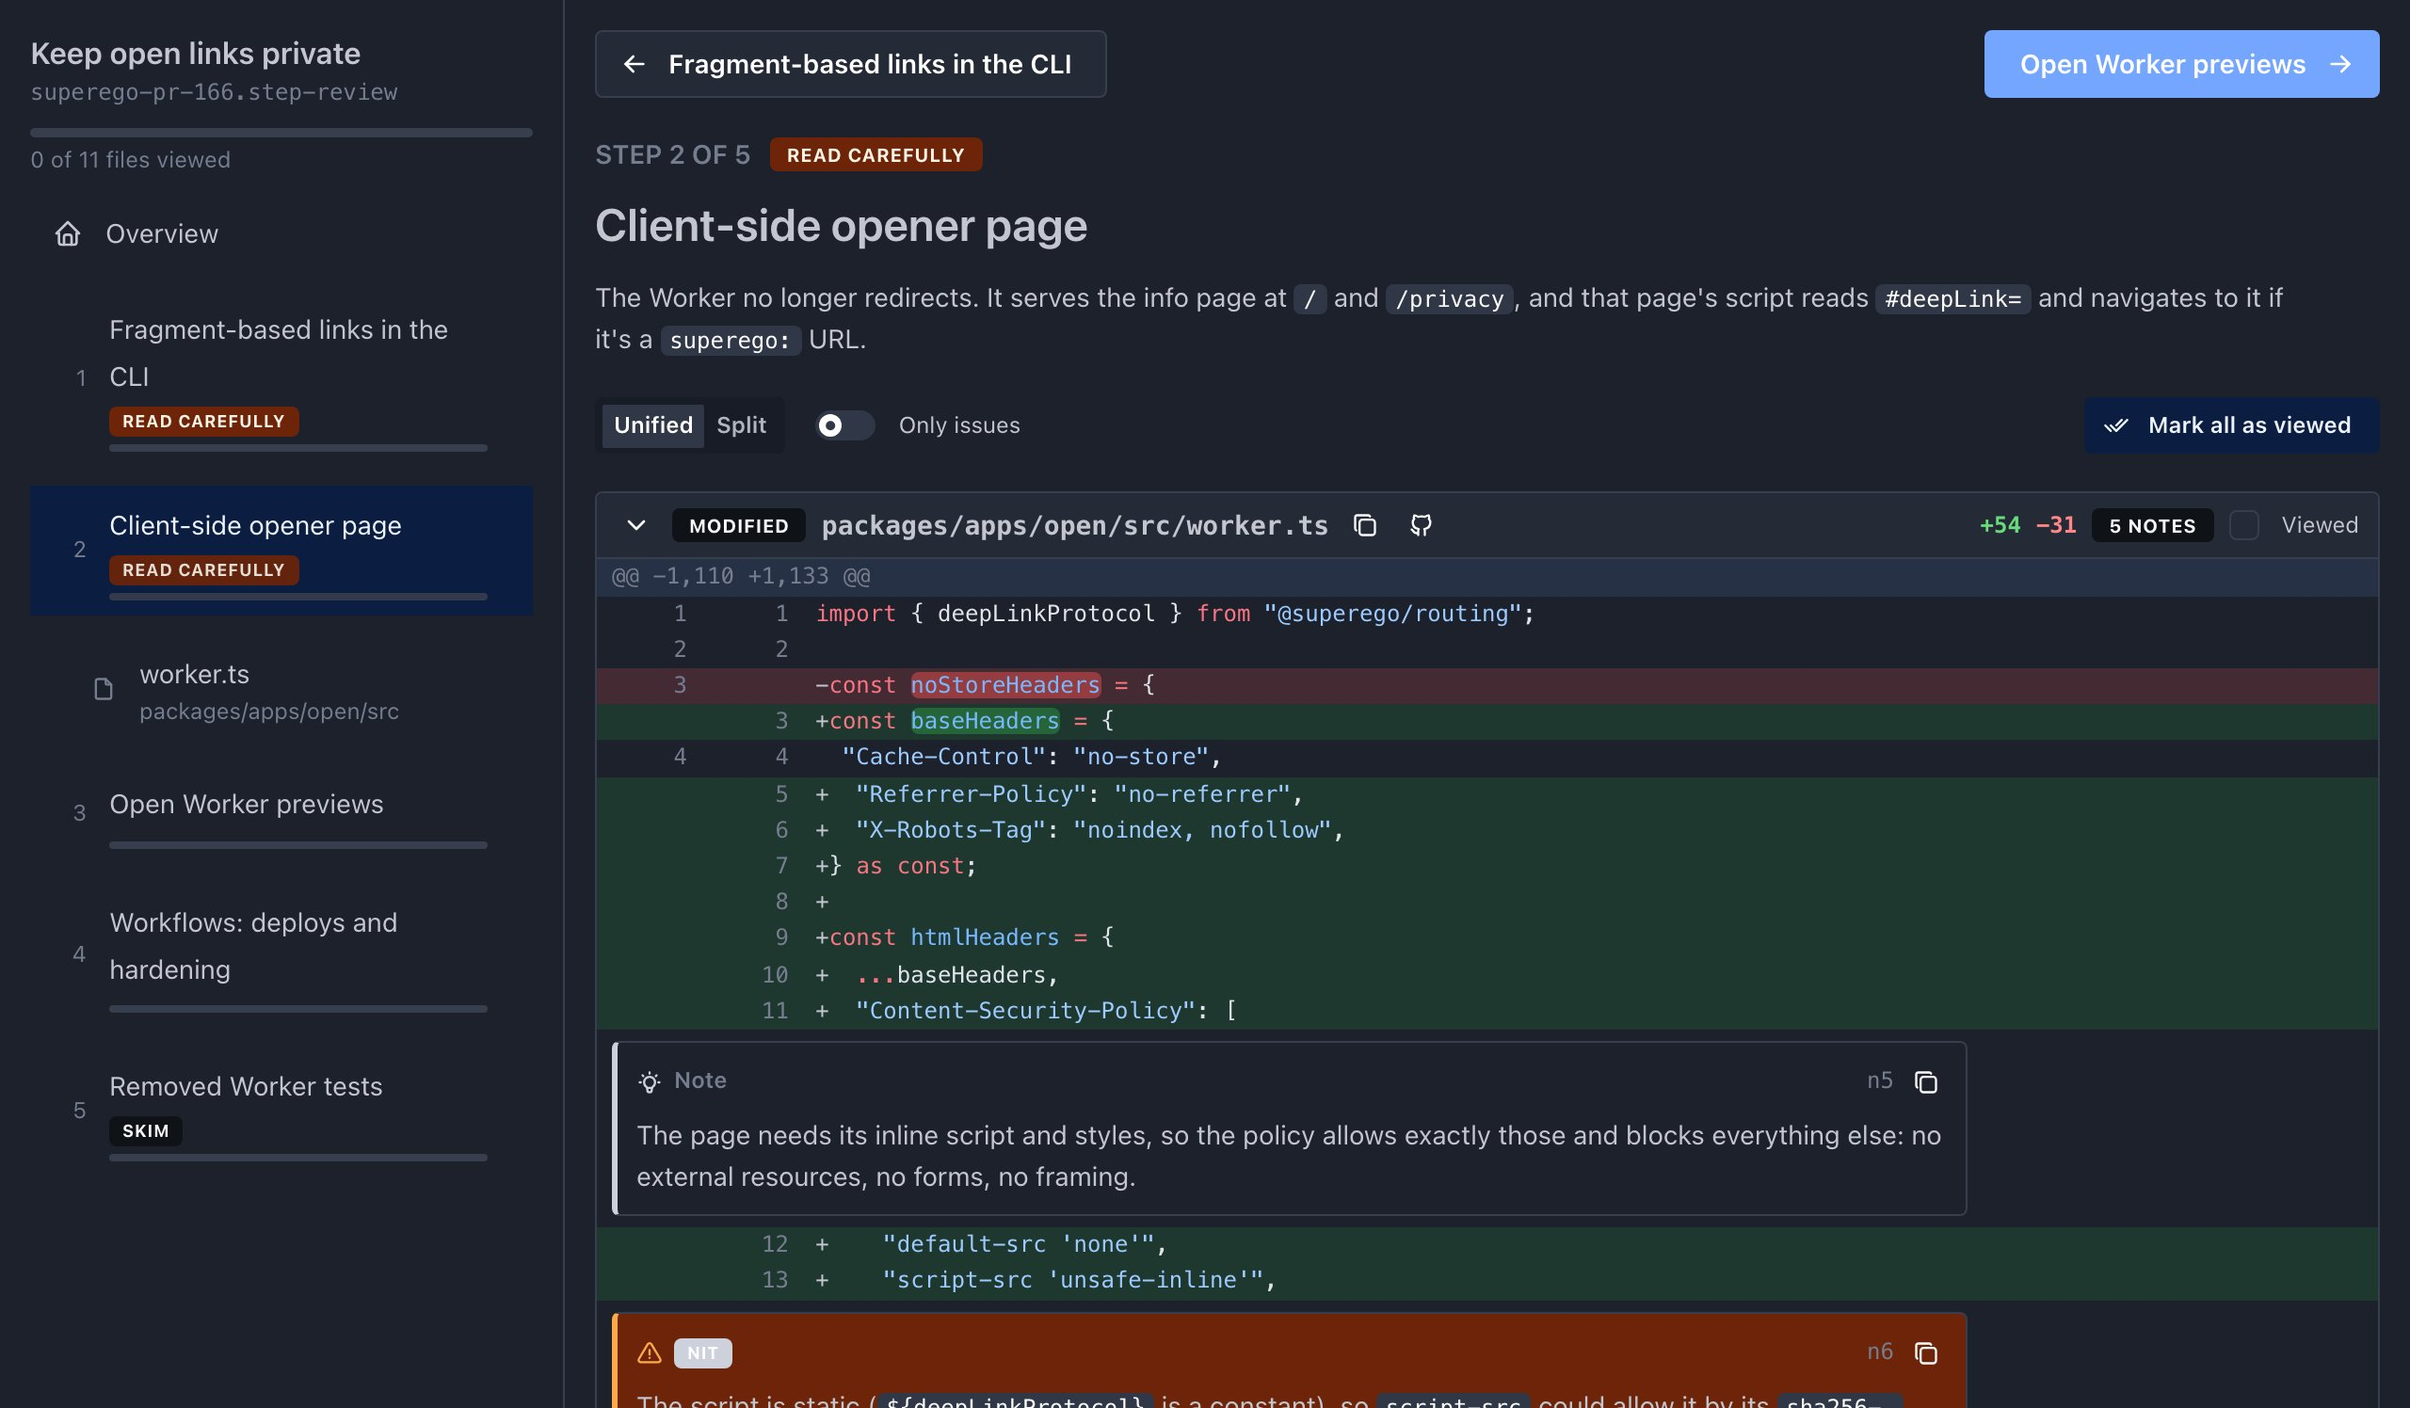
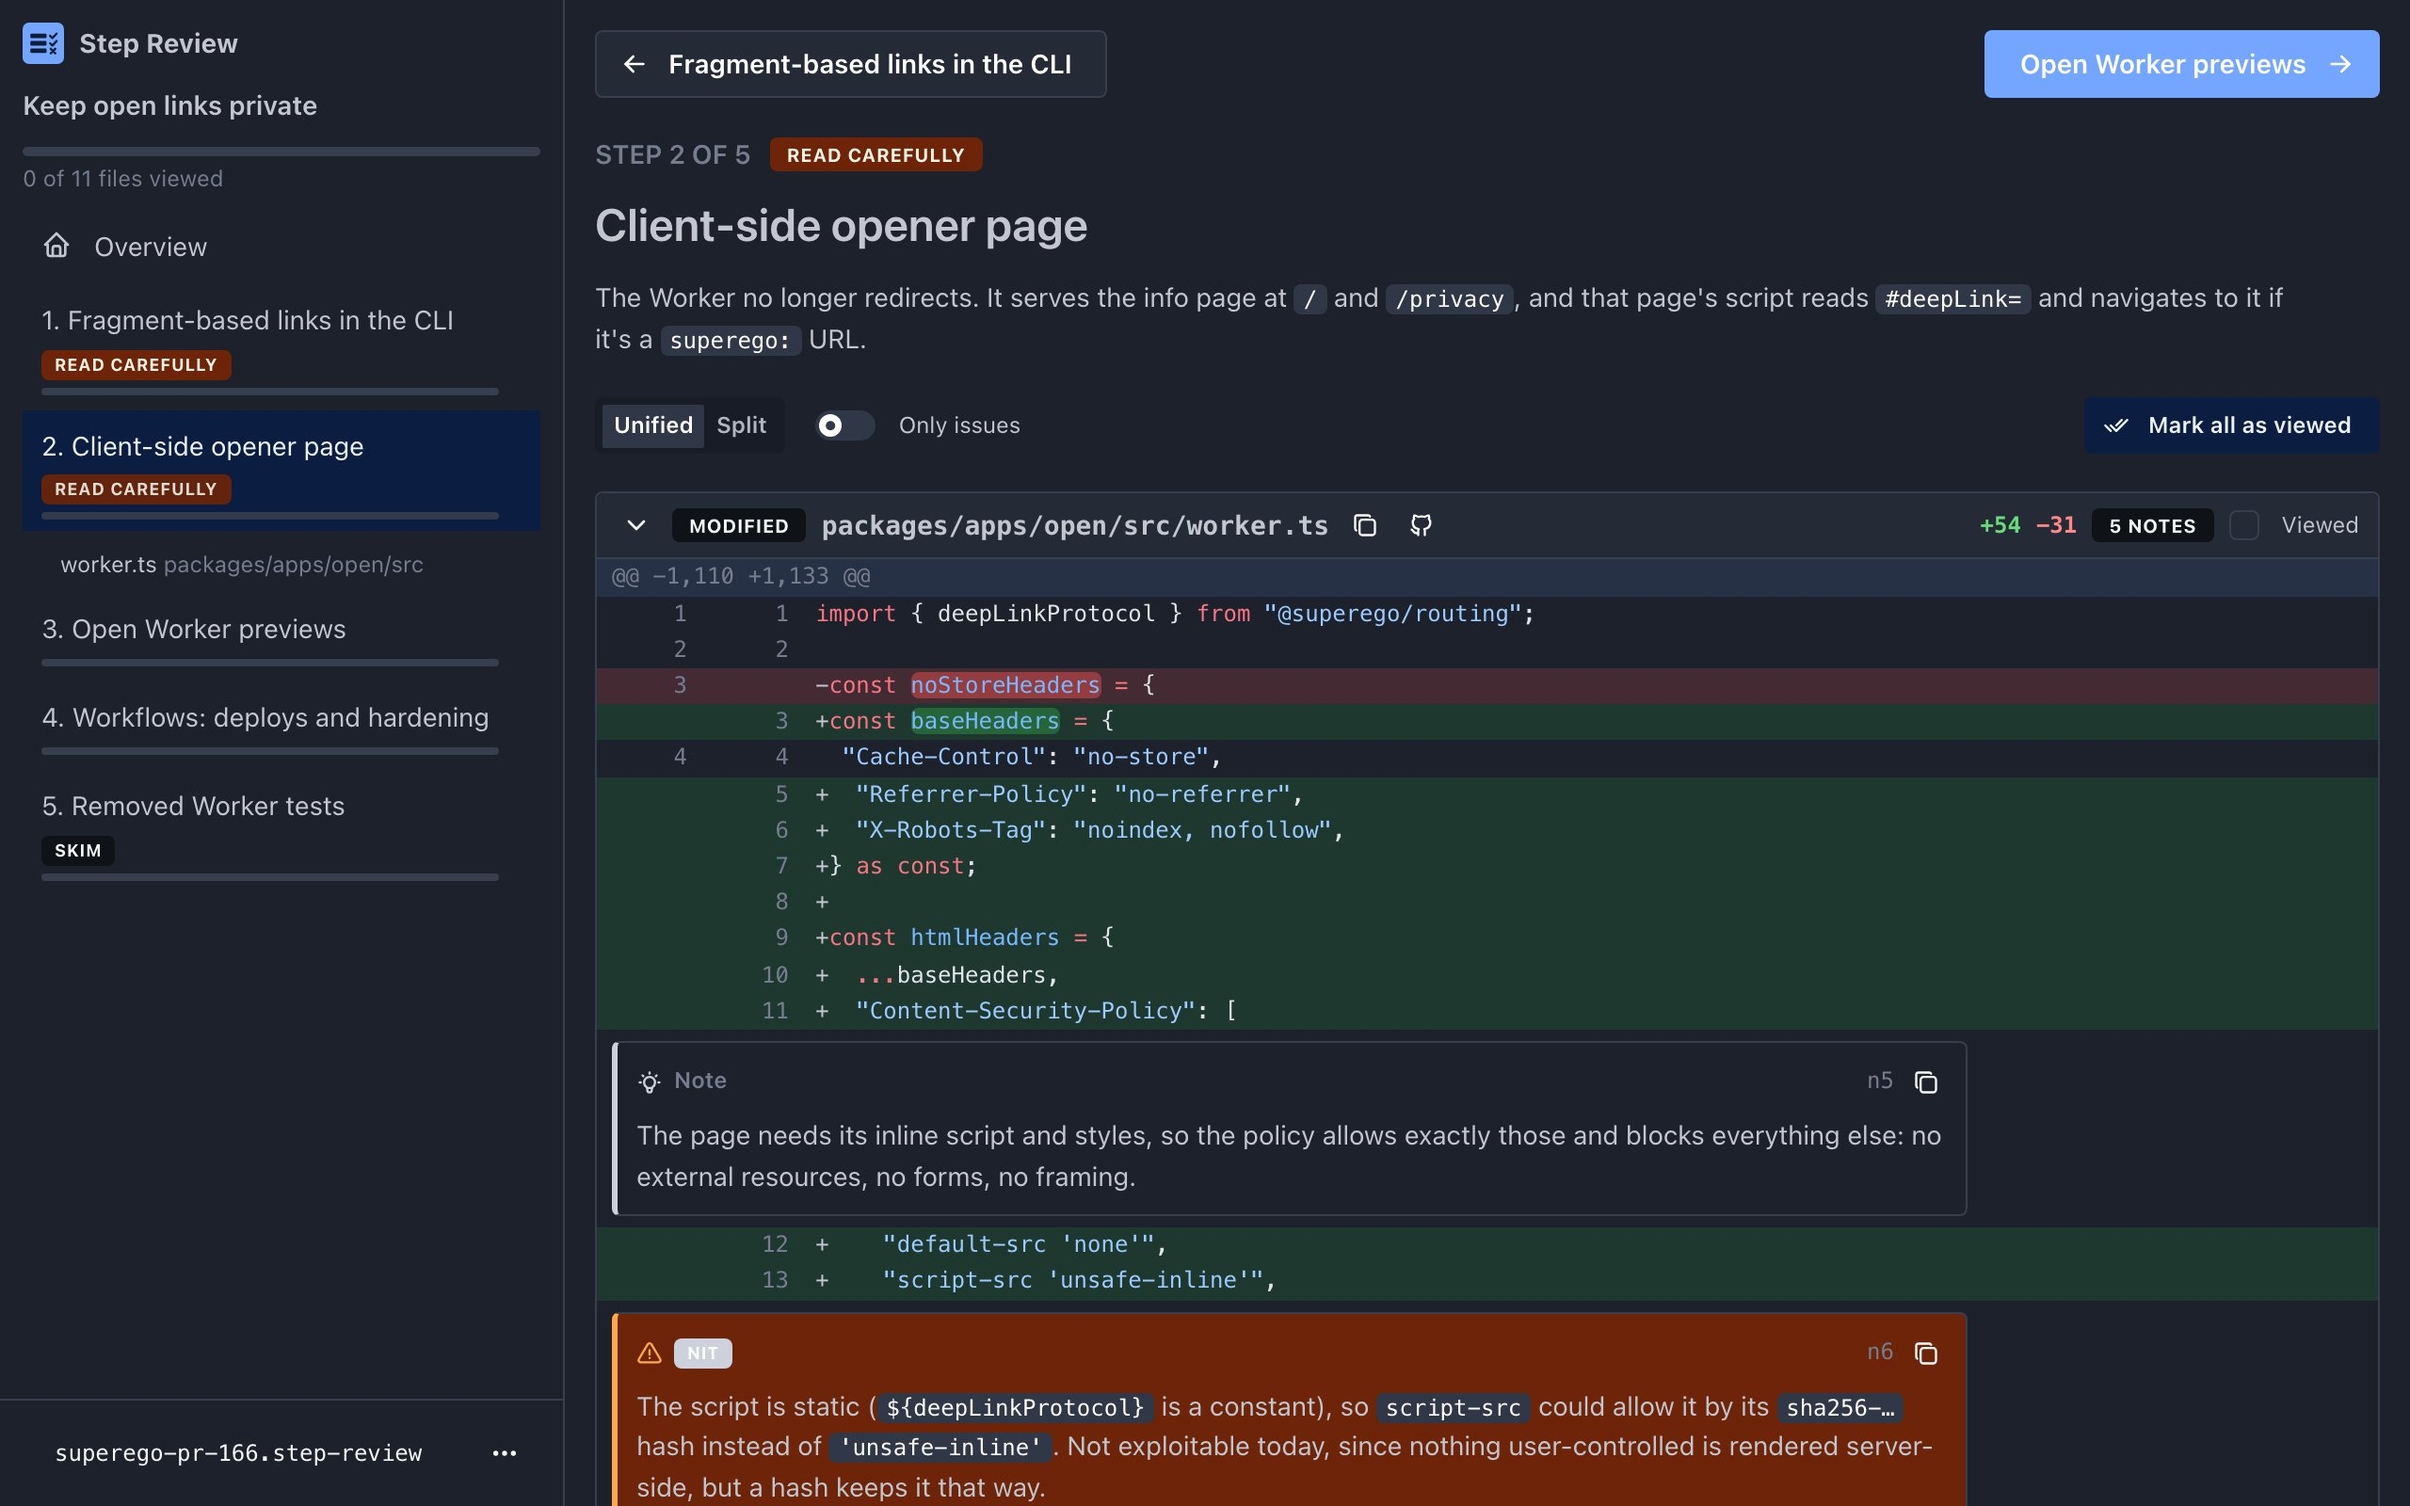
Make the sidebar compact and move the header into it
- Tighten the step links: the number goes before the title, with less
  padding, so most titles fit on one line.
- Show each file on one line, its name followed by its directory, with
  no icon; viewed files are dimmed.
- On wide screens, drop the top bar: the logo goes at the top of the
  sidebar and the review actions in a menu at its bottom, opened from
  the review file name. Narrow screens keep the bar to open the sidebar.
- Capture the start page screenshots again, now without cropping a
  header.

diff --git a/packages/app/src/components/widgets/StepNavigation/StepNavigation.tsx b/packages/app/src/components/widgets/StepNavigation/StepNavigation.tsx
@@ -1,5 +1,5 @@
-import { Group, NavLink, Progress, Stack, Text } from "@mantine/core";
-import { IconCircleCheck, IconFile, IconHome } from "@tabler/icons-react";
+import { Box, NavLink, Progress, Stack, Text } from "@mantine/core";
+import { IconHome } from "@tabler/icons-react";
 import type { MouseEvent } from "react";
 import { FormattedMessage } from "react-intl";
 import navigateTo from "../../../business-logic/navigation/navigateTo.ts";
@@ -38,8 +38,8 @@ export default function StepNavigation({
       onNavigate();
     };
   return (
-    <Stack gap="xs">
-      <div>
+    <Stack gap={2}>
+      <Box mb={6}>
         <Progress
           value={
             overall.totalCount
@@ -57,9 +57,11 @@ export default function StepNavigation({
             values={overall}
           />
         </Text>
-      </div>
+      </Box>
       <NavLink
         component="a"
+        px="xs"
+        py={6}
         href={routeHref({ name: RouteName.Overview })}
         label={<FormattedMessage defaultMessage="Overview" />}
         leftSection={<IconHome size={16} />}
@@ -72,24 +74,25 @@ export default function StepNavigation({
           <NavLink
             key={step.id}
             component="a"
+            px="xs"
+            py={6}
             href={routeHref({ name: RouteName.Step, stepId: step.id })}
             active={activeStepId === step.id}
             opened={activeStepId === step.id}
             // The active step is always open: no chevron to toggle it.
             rightSection={null}
             onClick={go(step.id)}
-            leftSection={
-              <Text size="xs" c="dimmed" w={18} ta="right">
-                {step.number}
-              </Text>
+            childrenOffset="xs"
+            label={
+              <>
+                {step.number}. <StepTitle step={step} />
+              </>
             }
-            label={<StepTitle step={step} />}
             description={
-              <Stack gap={4} mt={4}>
-                <Group gap={4}>
-                  <AttentionBadge attention={step.attention} size="xs" />
-                </Group>
+              <Stack gap={4} mt={4} align="flex-start">
+                <AttentionBadge attention={step.attention} size="xs" />
                 <Progress
+                  w="100%"
                   size={4}
                   value={
                     (progress.viewedCount / Math.max(progress.totalCount, 1)) *
@@ -107,30 +110,27 @@ export default function StepNavigation({
             {step.files.map((file) => {
               const fileFragment = `file-${file.id}`;
               const separatorIndex = file.path.lastIndexOf("/");
+              const isViewed = viewedFingerprints.has(file.fingerprint);
               return (
                 <NavLink
                   key={file.id}
                   component="a"
+                  px="xs"
+                  py={2}
                   href={`${routeHref({ name: RouteName.Step, stepId: step.id })}#${encodeURIComponent(fileFragment)}`}
                   active={fragment === fileFragment}
                   onClick={go(step.id, fileFragment)}
                   noWrap
                   title={file.path}
-                  leftSection={
-                    viewedFingerprints.has(file.fingerprint) ? (
-                      <IconCircleCheck
-                        size={14}
-                        color="var(--mantine-color-success-filled)"
-                      />
-                    ) : (
-                      <IconFile size={14} color="var(--mantine-color-dimmed)" />
-                    )
-                  }
-                  label={file.path.slice(separatorIndex + 1)}
-                  description={
-                    separatorIndex > 0
-                      ? file.path.slice(0, separatorIndex)
-                      : undefined
+                  label={
+                    // Viewed files are dimmed; the directory follows the name
+                    // on the same line, cut off when it doesn't fit.
+                    <Text span size="xs" c={isViewed ? "dimmed" : undefined}>
+                      {file.path.slice(separatorIndex + 1)}{" "}
+                      <Text span inherit c="dimmed">
+                        {file.path.slice(0, Math.max(separatorIndex, 0))}
+                      </Text>
+                    </Text>
                   }
                 />
               );

diff --git a/packages/app/src/components/widgets/ReviewShell/ReviewShell.tsx b/packages/app/src/components/widgets/ReviewShell/ReviewShell.tsx
@@ -1,5 +1,12 @@
-import { AppShell, Burger, Group, ScrollArea, Text } from "@mantine/core";
-import { useDisclosure } from "@mantine/hooks";
+import {
+  AppShell,
+  Burger,
+  Group,
+  ScrollArea,
+  Text,
+  useMantineTheme,
+} from "@mantine/core";
+import { useDisclosure, useMediaQuery } from "@mantine/hooks";
 import type { ReactNode } from "react";
 import navigateTo from "../../../business-logic/navigation/navigateTo.ts";
 import RouteName from "../../../business-logic/navigation/RouteName.ts";
@@ -24,10 +31,19 @@ export default function ReviewShell({
   activeStepId,
   children,
 }: Props) {
+  const theme = useMantineTheme();
   const [isNavbarOpen, navbar] = useDisclosure(false);
+  // On wide screens the navbar is always shown and holds the brand, so the
+  // header, which only opens the navbar, is hidden.
+  const isNavbarPinned = useMediaQuery(
+    `(min-width: ${theme.breakpoints.md})`,
+    true,
+    { getInitialValueInEffect: false },
+  );
+  const goToStart = () => navigateTo({ name: RouteName.Start });
   return (
     <AppShell
-      header={{ height: 52 }}
+      header={{ height: 52, collapsed: isNavbarPinned }}
       navbar={{
         width: 300,
         breakpoint: "md",
@@ -37,43 +53,46 @@ export default function ReviewShell({
     >
       <AppShell.Header>
         <Group h="100%" px="md" gap="sm" wrap="nowrap">
-          <Burger
-            opened={isNavbarOpen}
-            onClick={navbar.toggle}
-            hiddenFrom="md"
-            size="sm"
-          />
+          <Burger opened={isNavbarOpen} onClick={navbar.toggle} size="sm" />
           <Group
             gap={8}
             wrap="nowrap"
             className={styles["brand"]}
-            onClick={() => navigateTo({ name: RouteName.Start })}
+            onClick={goToStart}
           >
             <Logo size={26} />
-            <Text fw={700} visibleFrom="sm">
-              Step Review
-            </Text>
-          </Group>
-          <Group gap="xs" ml="auto" wrap="nowrap">
-            <ReviewMenu loadedReview={loadedReview} />
+            <Text fw={700}>Step Review</Text>
           </Group>
         </Group>
       </AppShell.Header>
       <AppShell.Navbar>
-        <AppShell.Section p="md" pb="xs">
-          <Text fw={600} lineClamp={3}>
+        <AppShell.Section p="sm">
+          <Group
+            gap={8}
+            wrap="nowrap"
+            mb="sm"
+            className={styles["brand"]}
+            onClick={goToStart}
+            visibleFrom="md"
+          >
+            <Logo size={22} />
+            <Text fw={700} size="sm">
+              Step Review
+            </Text>
+          </Group>
+          <Text fw={600} size="sm" lineClamp={3}>
             {reviewView.data.target.title}
           </Text>
-          <Text size="xs" c="dimmed" ff="monospace" truncate>
-            {loadedReview.fileName}
-          </Text>
         </AppShell.Section>
-        <AppShell.Section grow component={ScrollArea} px="md" pb="md">
+        <AppShell.Section grow component={ScrollArea} px="sm" pb="sm">
           <StepNavigation
             reviewView={reviewView}
             activeStepId={activeStepId}
             onNavigate={navbar.close}
           />
+        </AppShell.Section>
+        <AppShell.Section p="xs" className={styles["footer"]}>
+          <ReviewMenu loadedReview={loadedReview} />
         </AppShell.Section>
       </AppShell.Navbar>
       <AppShell.Main>{children}</AppShell.Main>

diff --git a/packages/app/src/components/widgets/ReviewMenu/ReviewMenu.tsx b/packages/app/src/components/widgets/ReviewMenu/ReviewMenu.tsx
@@ -1,4 +1,4 @@
-import { ActionIcon, FileButton, Menu } from "@mantine/core";
+import { Button, FileButton, Menu, Text } from "@mantine/core";
 import {
   IconDots,
   IconDownload,
@@ -38,14 +38,19 @@ export default function ReviewMenu({ loadedReview }: Props) {
     dispatch({ type: "replace", reviewState: importedReviewState });
   };
   return (
-    <Menu position="bottom-end" width={260}>
+    <Menu position="top-start" width="target">
       <Menu.Target>
-        <ActionIcon
-          variant="default"
-          aria-label={intl.formatMessage({ defaultMessage: "More actions" })}
+        <Button
+          variant="subtle"
+          color="gray"
+          fullWidth
+          justify="space-between"
+          rightSection={<IconDots size={16} />}
         >
-          <IconDots size={16} />
-        </ActionIcon>
+          <Text span size="xs" ff="monospace" truncate>
+            {loadedReview.fileName}
+          </Text>
+        </Button>
       </Menu.Target>
       <Menu.Dropdown>
         <Menu.Item

diff --git a/packages/app/scripts/captureScreenshots.ts b/packages/app/scripts/captureScreenshots.ts
@@ -29,19 +29,10 @@ try {
       window.dispatchEvent(new PopStateEvent("popstate"));
     }, stepPath);
     await page.waitForLoadState("networkidle");
-    // Leaves out the app header: the start page shows the review itself.
-    const headerHeight = (await page.locator("header").boundingBox())!.height;
-    const viewport = page.viewportSize()!;
     await page.screenshot({
       path: `${appDirectory}public/screenshots/review-${colorScheme}.jpg`,
       type: "jpeg",
       quality: 85,
-      clip: {
-        x: 0,
-        y: headerHeight,
-        width: viewport.width,
-        height: viewport.height - headerHeight,
-      },
     });
     await page.close();
   }

diff --git a/packages/app/src/components/widgets/ReviewShell/ReviewShell.module.css b/packages/app/src/components/widgets/ReviewShell/ReviewShell.module.css
@@ -2,3 +2,7 @@
   cursor: pointer;
   white-space: nowrap;
 }
+
+.footer {
+  border-top: 1px solid var(--app-shell-border-color);
+}
